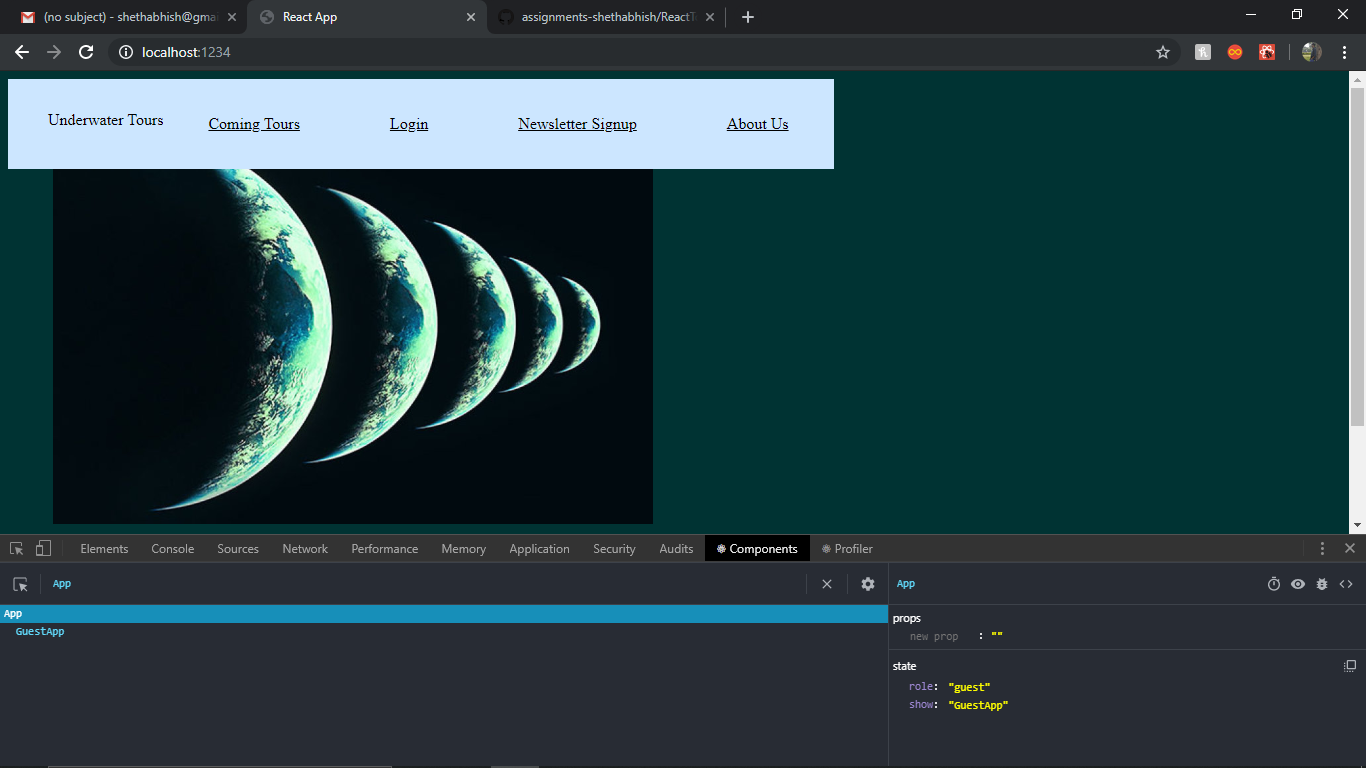
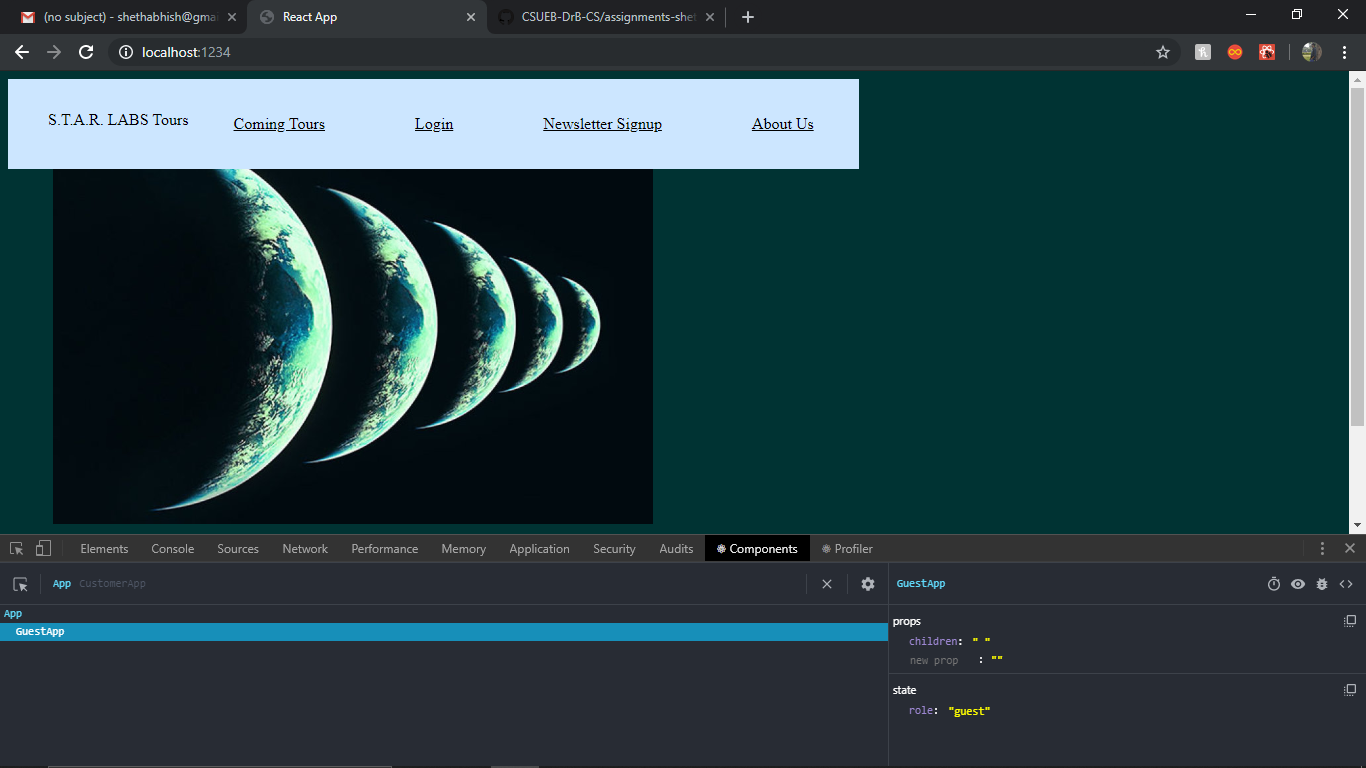
Lets go

diff --git a/ReactTour/components/CustomerApp.js b/ReactTour/components/CustomerApp.js
@@ -15,7 +15,7 @@ render(){
         <div>
     <nav>
     <ul>
-    <li><p className="logo">Underwater Tour</p></li>
+    <li><p className="logo">S.T.A.R. LABS Tours</p></li>
     <li><a href="#">Coming Tours</a></li>
     <li><a href="#">My Tours</a></li>
     <li><a href="#">About Us</a></li>

diff --git a/ReactTour/components/GuestApp.js b/ReactTour/components/GuestApp.js
@@ -18,7 +18,7 @@ return(
 
 <nav>
 <ul>
-<li><p className="logo">Underwater Tours</p></li>
+<li><p className="logo">S.T.A.R. LABS Tours</p></li>
 <li><a href="www.google.com">Coming Tours</a></li>
 <li><a href="www.google.com">Login</a></li>
 <li><a href="signup.html">Newsletter Signup</a></li>

diff --git a/ReactTour/components/AdminApp.js b/ReactTour/components/AdminApp.js
@@ -15,7 +15,7 @@ return(
 <div>
 <nav>
 <ul>
-<li><p className="logo">Underwater Tour</p></li>
+<li><p className="logo">S.T.A.R. LABS Tours</p></li>
 <li><a href="#">Tour Management</a></li>
 <li><a href="#">Customer Management</a></li>
 <li><a href="#">About Us</a></li>
